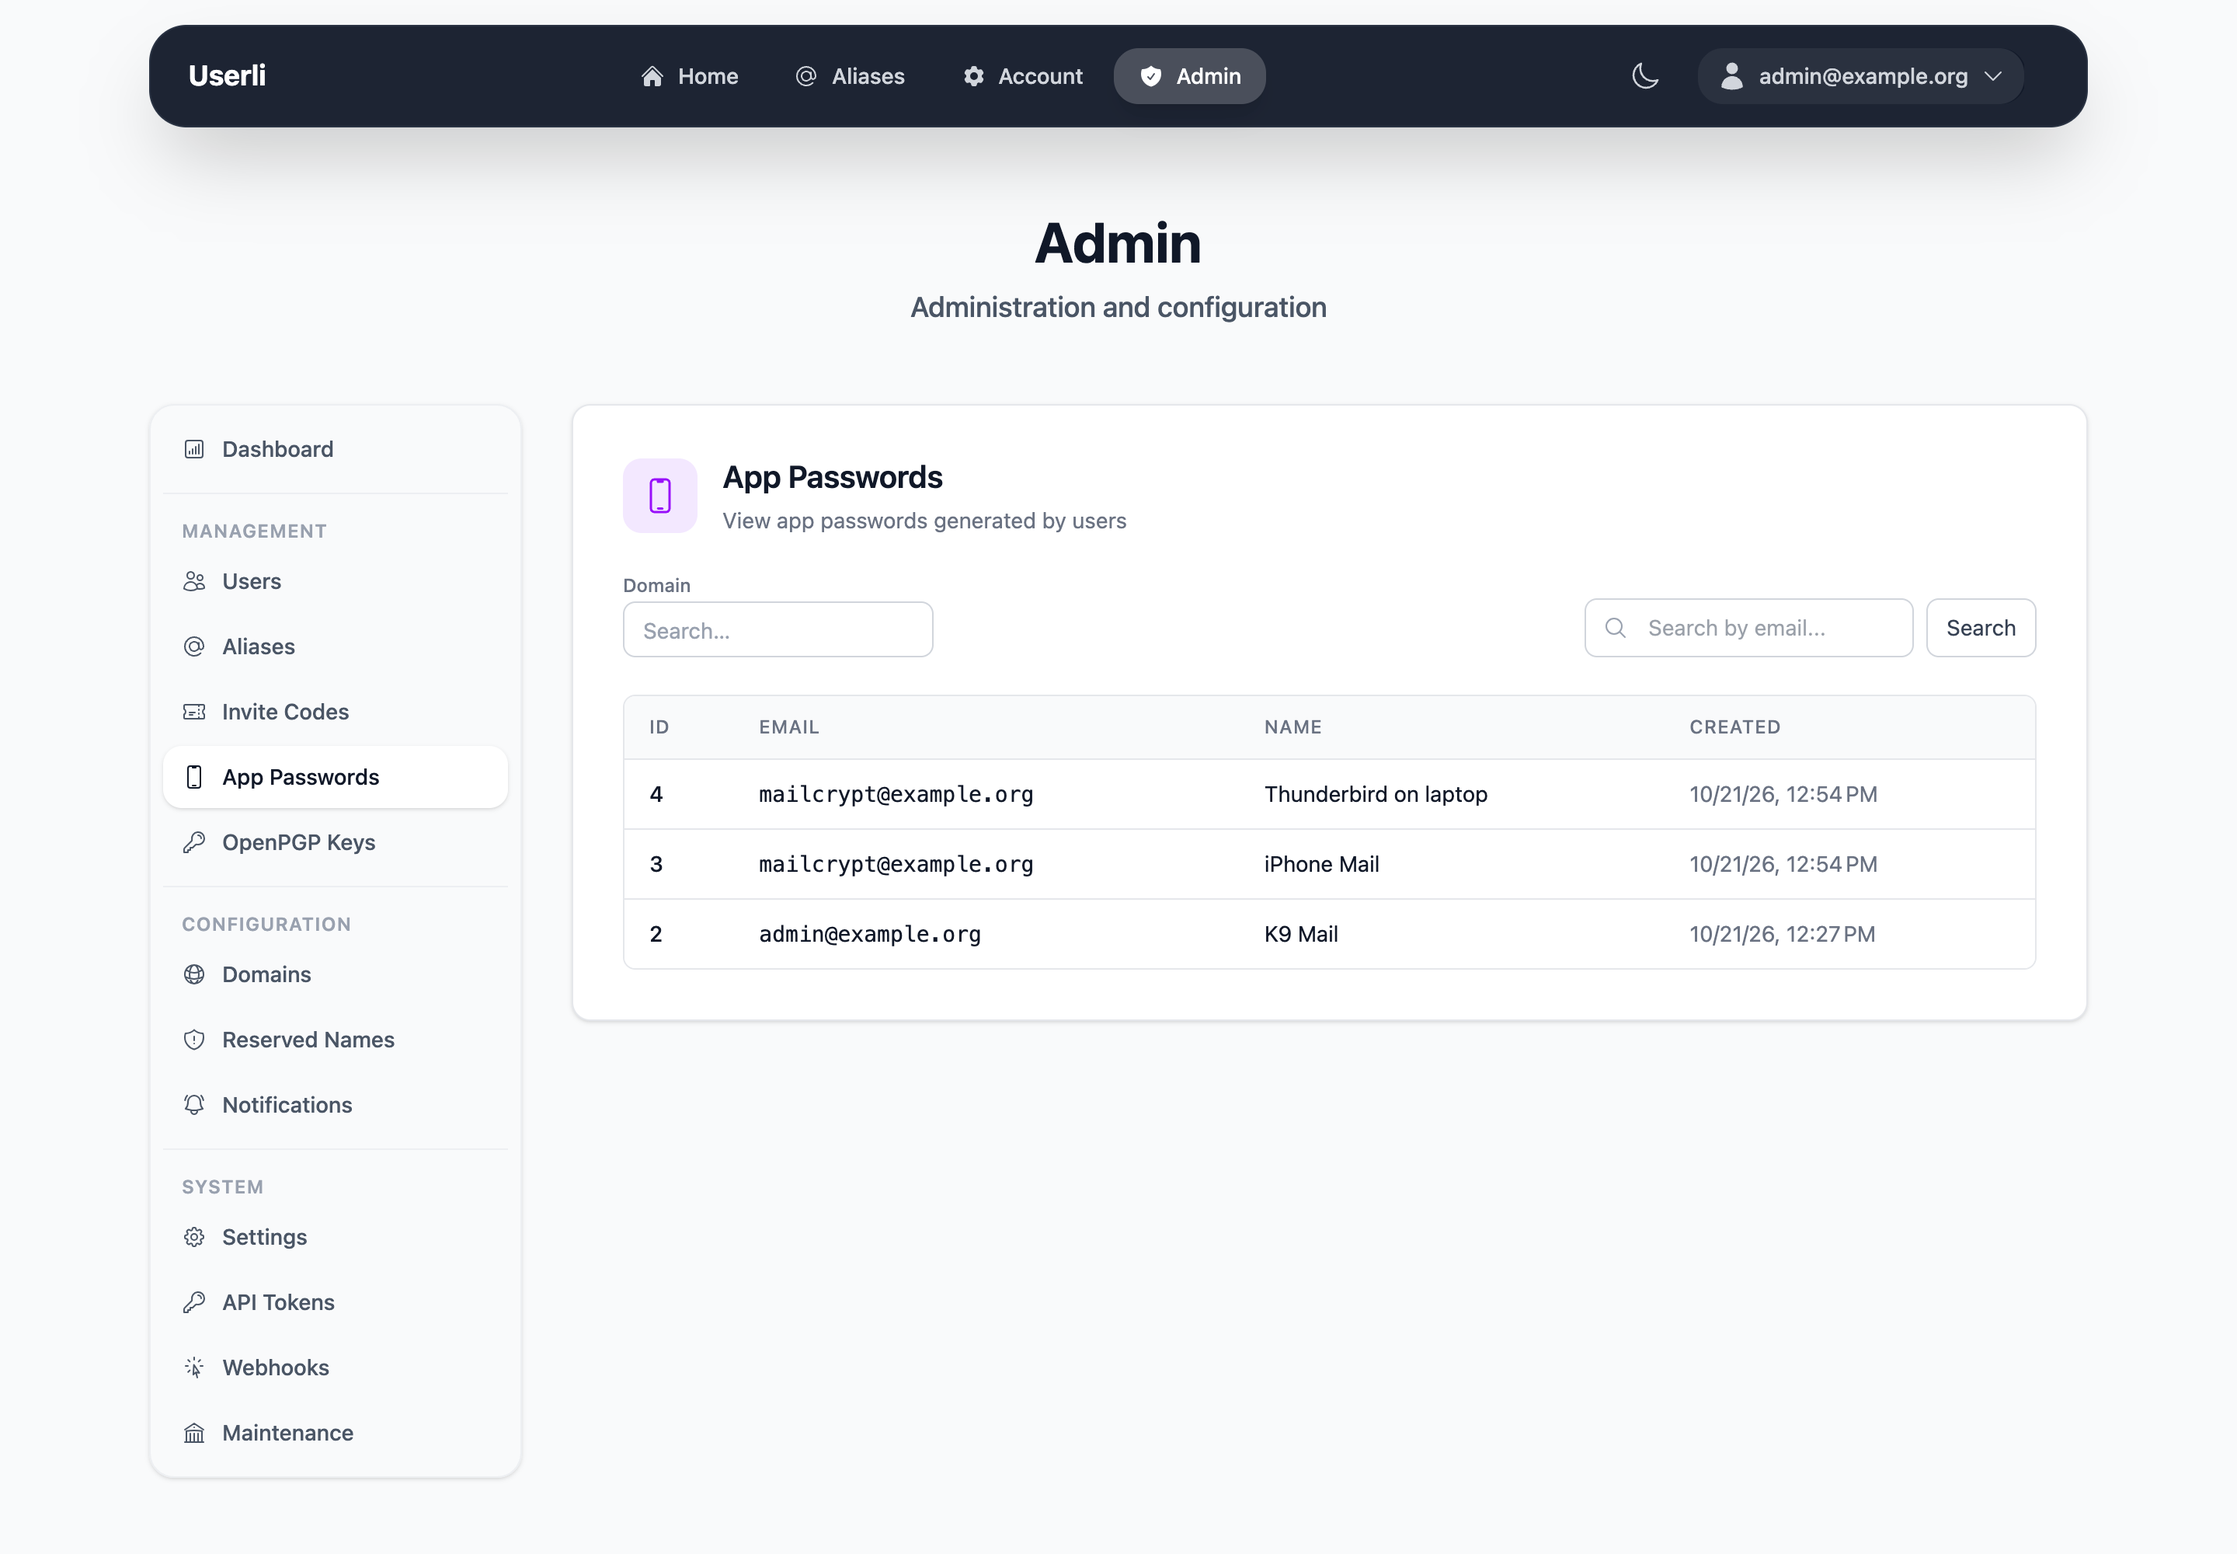
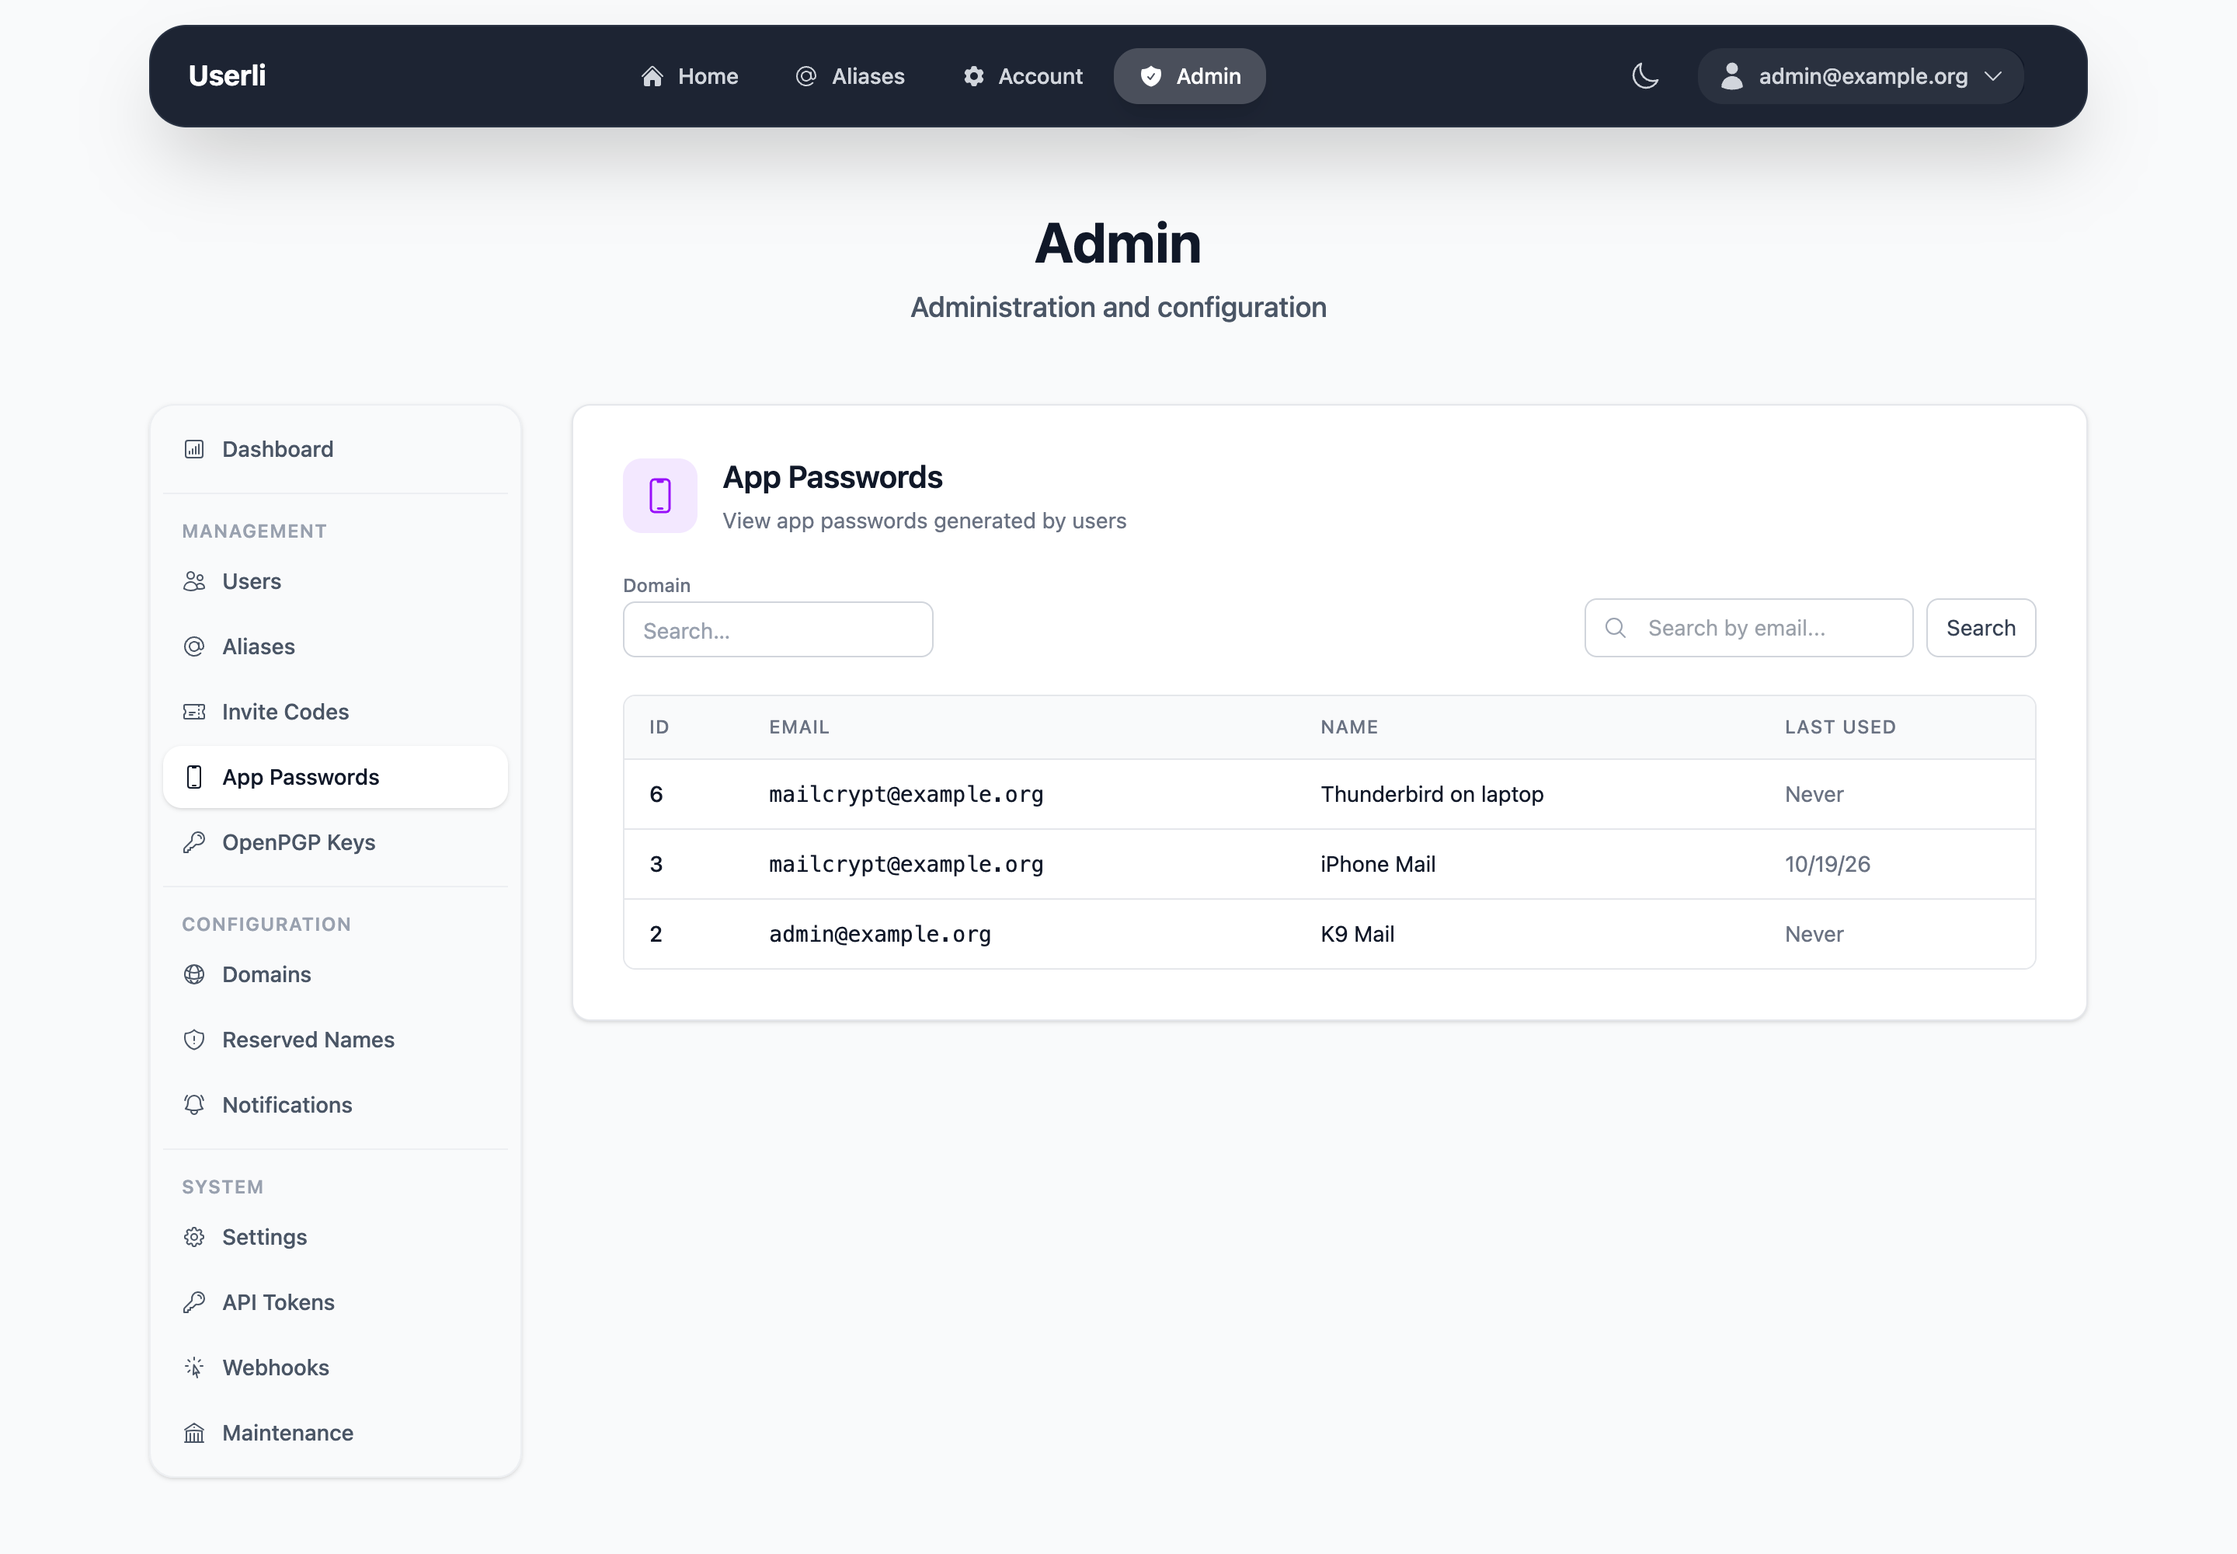
✨ Show when app passwords were last used
App password logins now also set the last login time of the app password,
with the same weekly resolution as for users. Logins with the main password
only update the user. The user and admin lists show the last use instead
of the creation date.

diff --git a/tests/Behat/FeatureContext.php b/tests/Behat/FeatureContext.php
@@ -905,8 +905,61 @@ class FeatureContext extends MinkContext
             }
 
             $secretBox = CryptoSecretHandler::create($privateKey, $data['password'])->encode();
-            $this->manager->persist(new AppPassword($user, $data['name'] ?? 'Test', hash('sha256', $data['password']), $secretBox));
+            $appPassword = new AppPassword($user, $data['name'] ?? 'Test', hash('sha256', $data['password']), $secretBox);
+            if (!empty($data['lastLoginTime'])) {
+                $appPassword->setLastLoginTime(new DateTimeImmutable($data['lastLoginTime']));
+            }
+            $this->manager->persist($appPassword);
             $this->manager->flush();
+        }
+    }
+
+    /**
+     * @Then the user :email should have a last login time of this week
+     */
+    public function theUserShouldHaveALastLoginTimeOfThisWeek(string $email): void
+    {
+        $this->manager->clear();
+        $user = $this->manager->getRepository(User::class)->findByEmail($email);
+
+        $this->assertLastLoginTimeOfThisWeek($user?->getLastLoginTime(), $email);
+    }
+
+    /**
+     * @Then the app password :name of :email should have a last login time of this week
+     */
+    public function theAppPasswordShouldHaveALastLoginTimeOfThisWeek(string $name, string $email): void
+    {
+        $this->assertLastLoginTimeOfThisWeek($this->findAppPassword($name, $email)->getLastLoginTime(), $name);
+    }
+
+    /**
+     * @Then the app password :name of :email should have no last login time
+     */
+    public function theAppPasswordShouldHaveNoLastLoginTime(string $name, string $email): void
+    {
+        if (null !== $this->findAppPassword($name, $email)->getLastLoginTime()) {
+            throw new RuntimeException(sprintf('Expected app password "%s" to have no last login time', $name));
+        }
+    }
+
+    private function findAppPassword(string $name, string $email): AppPassword
+    {
+        $this->manager->clear();
+        $user = $this->manager->getRepository(User::class)->findByEmail($email);
+        $appPassword = $this->manager->getRepository(AppPassword::class)->findOneBy(['user' => $user, 'name' => $name]);
+        if (!$appPassword instanceof AppPassword) {
+            throw new RuntimeException(sprintf('App password "%s" of "%s" not found', $name, $email));
+        }
+
+        return $appPassword;
+    }
+
+    private function assertLastLoginTimeOfThisWeek(?DateTimeImmutable $lastLoginTime, string $subject): void
+    {
+        $thisWeek = new DateTimeImmutable('monday this week midnight');
+        if ($lastLoginTime?->getTimestamp() !== $thisWeek->getTimestamp()) {
+            throw new RuntimeException(sprintf('Expected last login time of "%s" to be %s, got %s', $subject, $thisWeek->format('c'), $lastLoginTime?->format('c') ?? 'null'));
         }
     }
 

diff --git a/tests/Handler/UserAuthenticationHandlerTest.php b/tests/Handler/UserAuthenticationHandlerTest.php
@@ -20,11 +20,13 @@ class UserAuthenticationHandlerTest extends TestCase
     private string $wrong = 'wrong';
     private string $appPassword = 'app-password';
     private User $user;
+    private AppPassword $appPasswordEntity;
 
     protected function setUp(): void
     {
         $this->user = new User('test@example.org');
         $this->user->setPassword($this->password);
+        $this->appPasswordEntity = new AppPassword($this->user, 'Phone', hash('sha256', $this->appPassword), 'box');
     }
 
     protected function createHandler(
@@ -42,9 +44,7 @@ class UserAuthenticationHandlerTest extends TestCase
 
         $appPasswordManager = $this->createStub(AppPasswordManager::class);
         $appPasswordManager->method('find')->willReturnCallback(
-            fn (User $user, string $plain) => $plain === $this->appPassword
-                ? new AppPassword($user, 'Phone', hash('sha256', $plain), 'box')
-                : null
+            fn (User $user, string $plain) => $plain === $this->appPassword ? $this->appPasswordEntity : null
         );
 
         return new UserAuthenticationHandler(
@@ -75,7 +75,7 @@ class UserAuthenticationHandlerTest extends TestCase
         $eventDispatcher = $this->createMock(EventDispatcherInterface::class);
         $eventDispatcher->expects($this->never())->method('dispatch');
         $lastLoginUpdateService = $this->createMock(UserLastLoginUpdateService::class);
-        $lastLoginUpdateService->expects($this->once())->method('updateLastLogin')->with($this->user);
+        $lastLoginUpdateService->expects($this->once())->method('updateLastLogin')->with($this->user, $this->appPasswordEntity);
 
         $handler = $this->createHandler($eventDispatcher, $lastLoginUpdateService);
 
@@ -88,5 +88,17 @@ class UserAuthenticationHandlerTest extends TestCase
 
         self::assertSame($this->user, $handler->authenticate($this->user, $this->password, true));
         self::assertNull($handler->authenticate($this->user, $this->wrong, true));
+    }
+
+    public function testMainPasswordLeavesLastLoginToLoginEvent(): void
+    {
+        $eventDispatcher = $this->createMock(EventDispatcherInterface::class);
+        $eventDispatcher->expects($this->once())->method('dispatch');
+        $lastLoginUpdateService = $this->createMock(UserLastLoginUpdateService::class);
+        $lastLoginUpdateService->expects($this->never())->method('updateLastLogin');
+
+        $handler = $this->createHandler($eventDispatcher, $lastLoginUpdateService);
+
+        self::assertSame($this->user, $handler->authenticate($this->user, $this->password, true));
     }
 }

diff --git a/tests/Service/UserLastLoginUpdateServiceTest.php b/tests/Service/UserLastLoginUpdateServiceTest.php
@@ -4,6 +4,7 @@ declare(strict_types=1);
 
 namespace App\Tests\Service;
 
+use App\Entity\AppPassword;
 use App\Entity\User;
 use App\Service\UserLastLoginUpdateService;
 use DateTimeImmutable;
@@ -102,5 +103,50 @@ class UserLastLoginUpdateServiceTest extends TestCase
         // Assert - the time should remain unchanged
         $lastLoginTime = $user->getLastLoginTime();
         self::assertEquals($currentWeekStart->getTimestamp(), $lastLoginTime->getTimestamp());
+    }
+
+    public function testUpdateLastLoginUpdatesAppPassword(): void
+    {
+        $user = new User('test@example.org');
+        $appPassword = new AppPassword($user, 'Phone', 'hash', 'box');
+        $thisWeek = new DateTimeImmutable('monday this week midnight');
+
+        $this->entityManager->expects($this->exactly(2))->method('persist');
+        $this->entityManager->expects($this->once())->method('flush');
+
+        $this->service->updateLastLogin($user, $appPassword);
+
+        self::assertEquals($thisWeek->getTimestamp(), $user->getLastLoginTime()?->getTimestamp());
+        self::assertEquals($thisWeek->getTimestamp(), $appPassword->getLastLoginTime()?->getTimestamp());
+    }
+
+    public function testUpdateLastLoginUpdatesAppPasswordWhenUserAlreadyCurrentWeek(): void
+    {
+        $user = new User('test@example.org');
+        $thisWeek = new DateTimeImmutable('monday this week midnight');
+        $user->setLastLoginTime($thisWeek);
+        $appPassword = new AppPassword($user, 'Phone', 'hash', 'box');
+        $appPassword->setLastLoginTime(new DateTimeImmutable('-1 week'));
+
+        $this->entityManager->expects($this->once())->method('persist')->with($appPassword);
+        $this->entityManager->expects($this->once())->method('flush');
+
+        $this->service->updateLastLogin($user, $appPassword);
+
+        self::assertEquals($thisWeek->getTimestamp(), $appPassword->getLastLoginTime()?->getTimestamp());
+    }
+
+    public function testUpdateLastLoginDoesNotUpdateAppPasswordWhenAlreadyCurrentWeek(): void
+    {
+        $user = new User('test@example.org');
+        $thisWeek = new DateTimeImmutable('monday this week midnight');
+        $user->setLastLoginTime($thisWeek);
+        $appPassword = new AppPassword($user, 'Phone', 'hash', 'box');
+        $appPassword->setLastLoginTime($thisWeek);
+
+        $this->entityManager->expects($this->never())->method('persist');
+        $this->entityManager->expects($this->never())->method('flush');
+
+        $this->service->updateLastLogin($user, $appPassword);
     }
 }

diff --git a/src/Service/UserLastLoginUpdateService.php b/src/Service/UserLastLoginUpdateService.php
@@ -4,6 +4,7 @@ declare(strict_types=1);
 
 namespace App\Service;
 
+use App\Entity\AppPassword;
 use App\Entity\User;
 use DateTimeImmutable;
 use Doctrine\ORM\EntityManagerInterface;
@@ -16,22 +17,29 @@ final readonly class UserLastLoginUpdateService
     }
 
     /**
-     * Updates the last login time of the user.
+     * Updates the last login time of the user and, if given, of the app password used.
      *
      * The update is obfuscated by only updating the last login time if it is not already set to the start
      * of the current week.
      */
-    public function updateLastLogin(User $user): void
+    public function updateLastLogin(User $user, ?AppPassword $appPassword = null): void
     {
         $thisWeek = new DateTimeImmutable('monday this week midnight');
+        $changed = false;
 
-        // If the last login time is already set to this week, do not update it again
-        if ($user->getLastLoginTime() && $user->getLastLoginTime()->getTimestamp() === $thisWeek->getTimestamp()) {
-            return;
+        foreach ([$user, $appPassword] as $entity) {
+            // If the last login time is already set to this week, do not update it again
+            if (null === $entity || $entity->getLastLoginTime()?->getTimestamp() === $thisWeek->getTimestamp()) {
+                continue;
+            }
+
+            $entity->setLastLoginTime($thisWeek);
+            $this->entityManager->persist($entity);
+            $changed = true;
         }
 
-        $user->setLastLoginTime($thisWeek);
-        $this->entityManager->persist($user);
-        $this->entityManager->flush();
+        if ($changed) {
+            $this->entityManager->flush();
+        }
     }
 }

diff --git a/src/Handler/UserAuthenticationHandler.php b/src/Handler/UserAuthenticationHandler.php
@@ -24,8 +24,8 @@ final readonly class UserAuthenticationHandler
     public function authenticate(User $user, string $password, bool $allowAppPassword = false): ?User
     {
         // App passwords skip LoginEvent: it would create MailCrypt keys with them and run HIBP checks
-        if ($allowAppPassword && null !== $this->appPasswordManager->find($user, $password)) {
-            $this->userLastLoginUpdateService->updateLastLogin($user);
+        if ($allowAppPassword && null !== $appPassword = $this->appPasswordManager->find($user, $password)) {
+            $this->userLastLoginUpdateService->updateLastLogin($user, $appPassword);
 
             return $user;
         }

diff --git a/migrations/Version20261021131007.php b/migrations/Version20261021131007.php
@@ -1,0 +1,26 @@
+<?php
+
+declare(strict_types=1);
+
+namespace DoctrineMigrations;
+
+use Doctrine\DBAL\Schema\Schema;
+use Doctrine\Migrations\AbstractMigration;
+
+final class Version20261021131007 extends AbstractMigration
+{
+    public function getDescription(): string
+    {
+        return 'Add last_login_time to app_passwords';
+    }
+
+    public function up(Schema $schema): void
+    {
+        $this->addSql('ALTER TABLE app_passwords ADD last_login_time DATETIME DEFAULT NULL');
+    }
+
+    public function down(Schema $schema): void
+    {
+        $this->addSql('ALTER TABLE app_passwords DROP last_login_time');
+    }
+}

diff --git a/src/Entity/AppPassword.php b/src/Entity/AppPassword.php
@@ -6,6 +6,7 @@ namespace App\Entity;
 
 use App\Repository\AppPasswordRepository;
 use App\Traits\CreationTimeTrait;
+use App\Traits\LastLoginTimeTrait;
 use DateTimeImmutable;
 use Doctrine\ORM\Mapping as ORM;
 
@@ -15,6 +16,7 @@ use Doctrine\ORM\Mapping as ORM;
 class AppPassword
 {
     use CreationTimeTrait;
+    use LastLoginTimeTrait;
 
     #[ORM\Id]
     #[ORM\GeneratedValue]

diff --git a/docs/admin/index.md b/docs/admin/index.md
@@ -46,7 +46,8 @@ find keys by email address or domain. Users manage their keys themselves, see
 ## App passwords
 
 **Management → App Passwords** is a read-only list of the app passwords users
-have generated, with name and creation date. Use the search to find them by
+have generated, with name and last use (rounded to the start of the week, like
+the last login of users). Use the search to find them by
 email address or domain. Users manage their app passwords themselves, see
 [App passwords](../user/app-passwords.md) in the User Guide.
 

diff --git a/docs/user/app-passwords.md b/docs/user/app-passwords.md
@@ -39,6 +39,9 @@ This makes them safer than using your password everywhere:
 
 ## Delete an app password
 
+The list shows when each app password was last used, rounded to the start of
+the week. Delete the ones you no longer need.
+
 Go to **Account settings → App Passwords**, click the delete button (×) next to
 the app password and confirm. The app using it can't sign in anymore.
 
